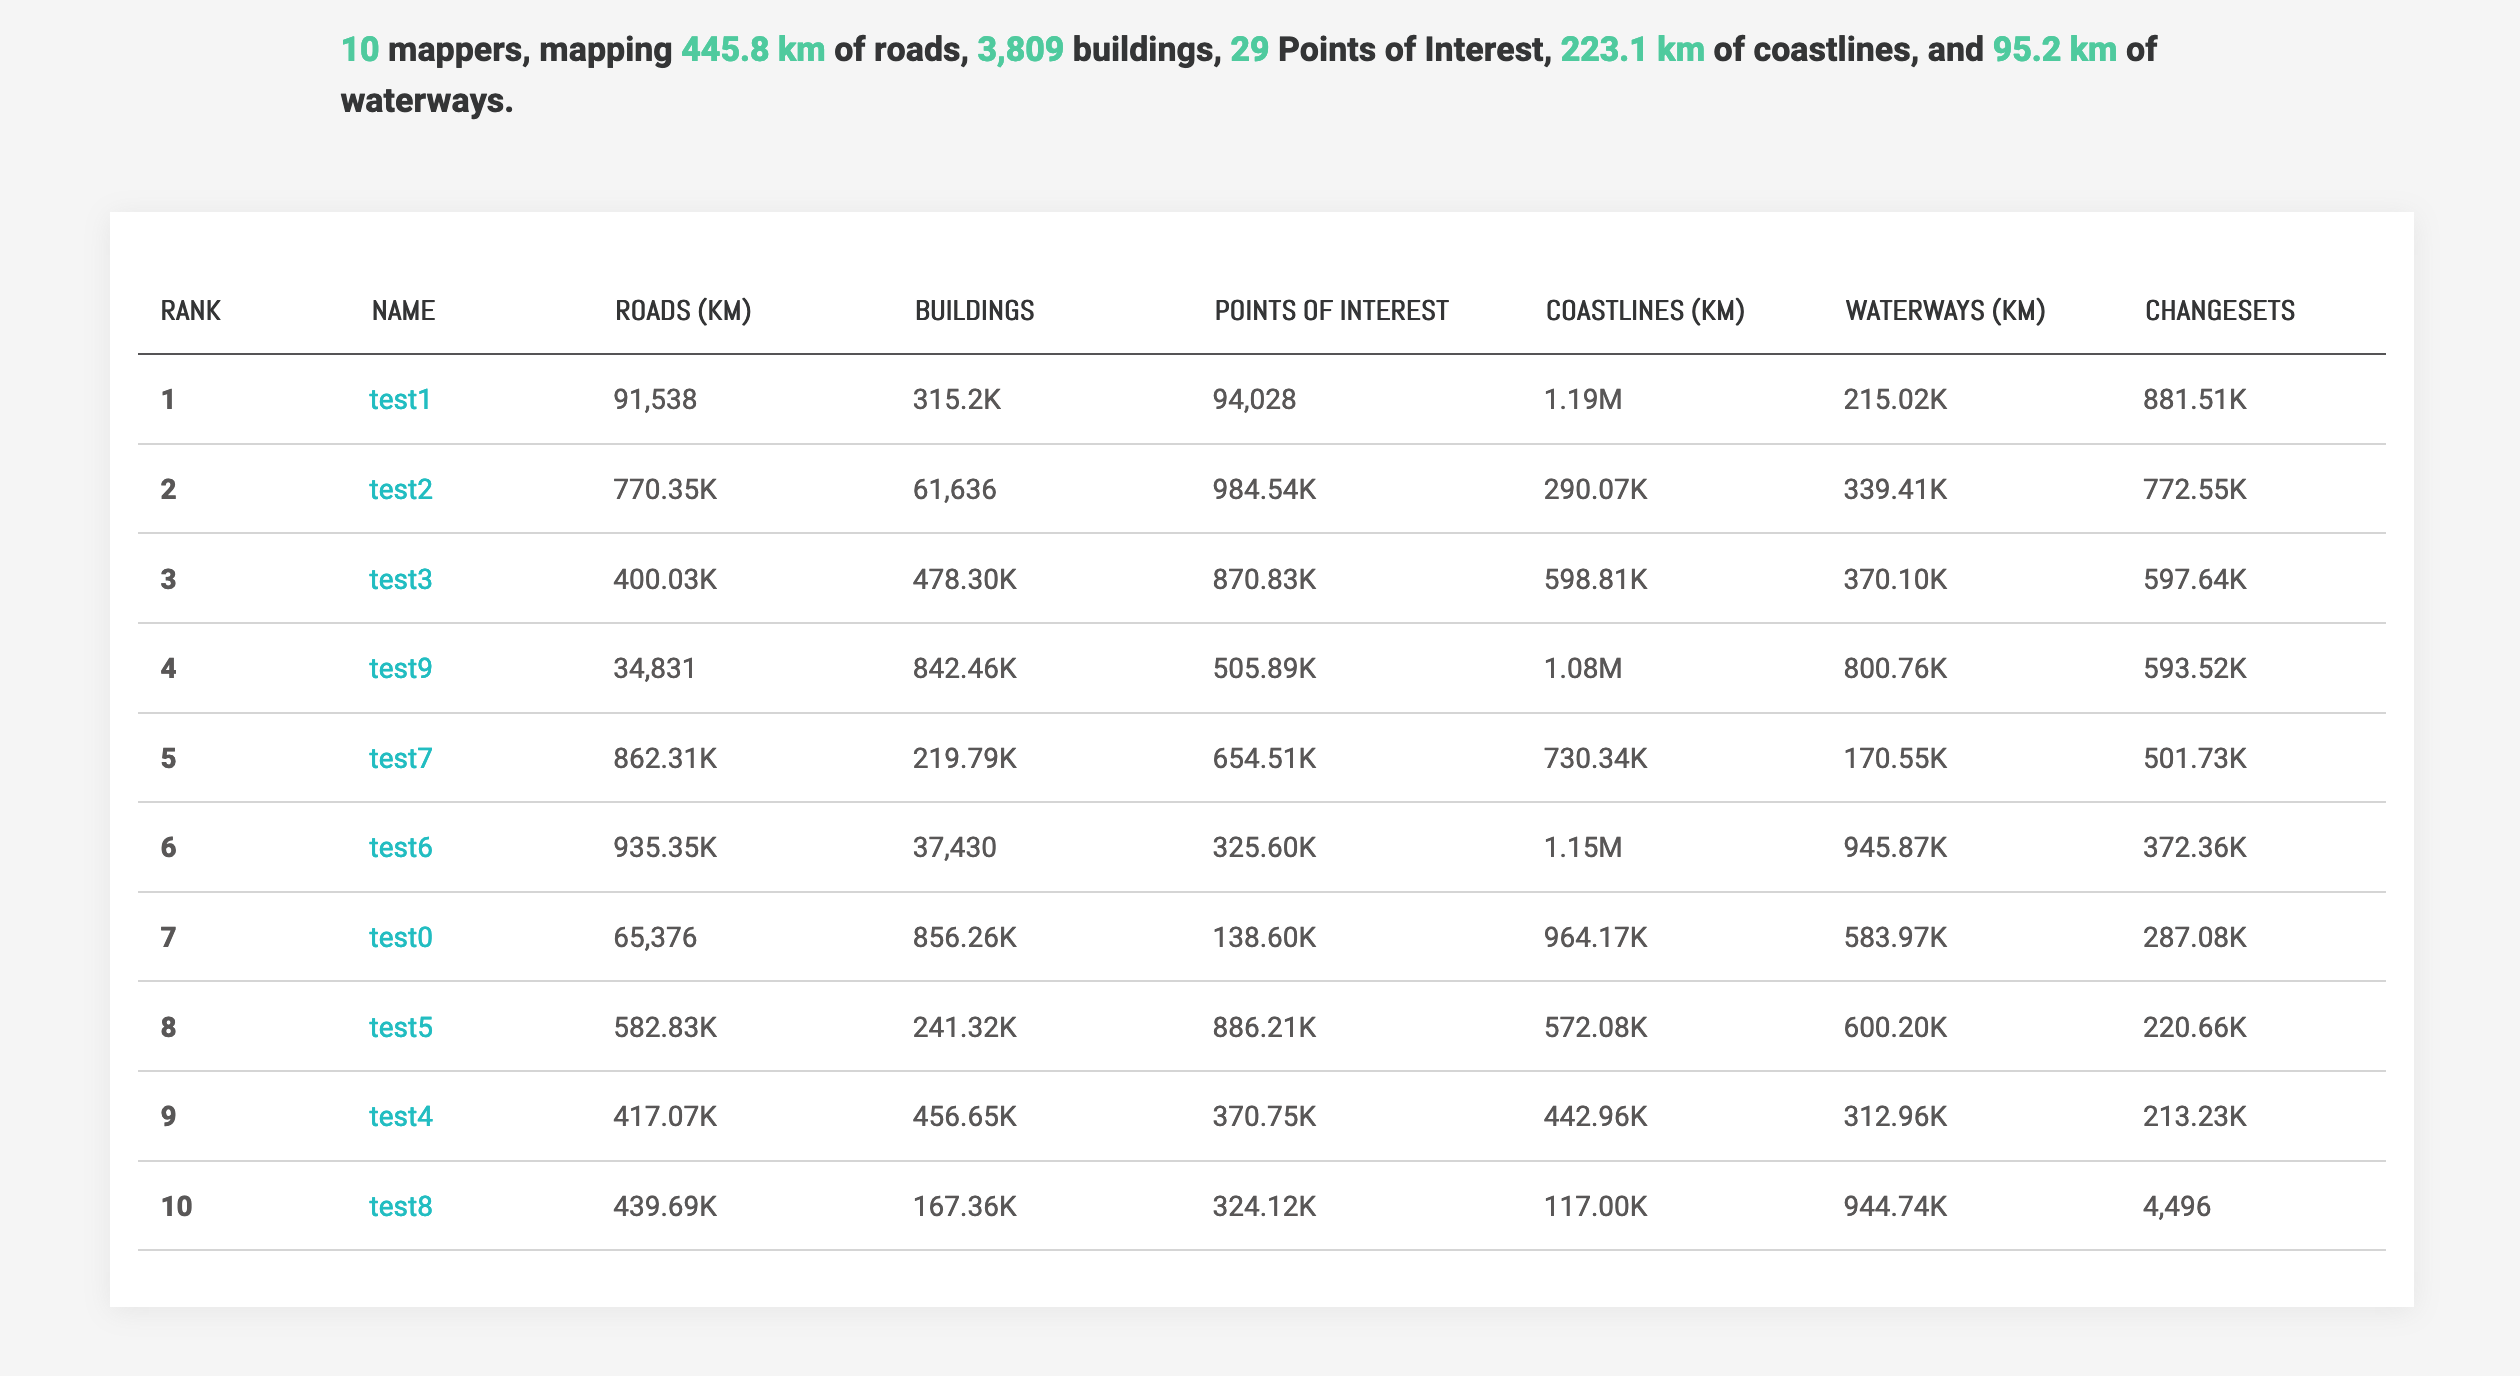
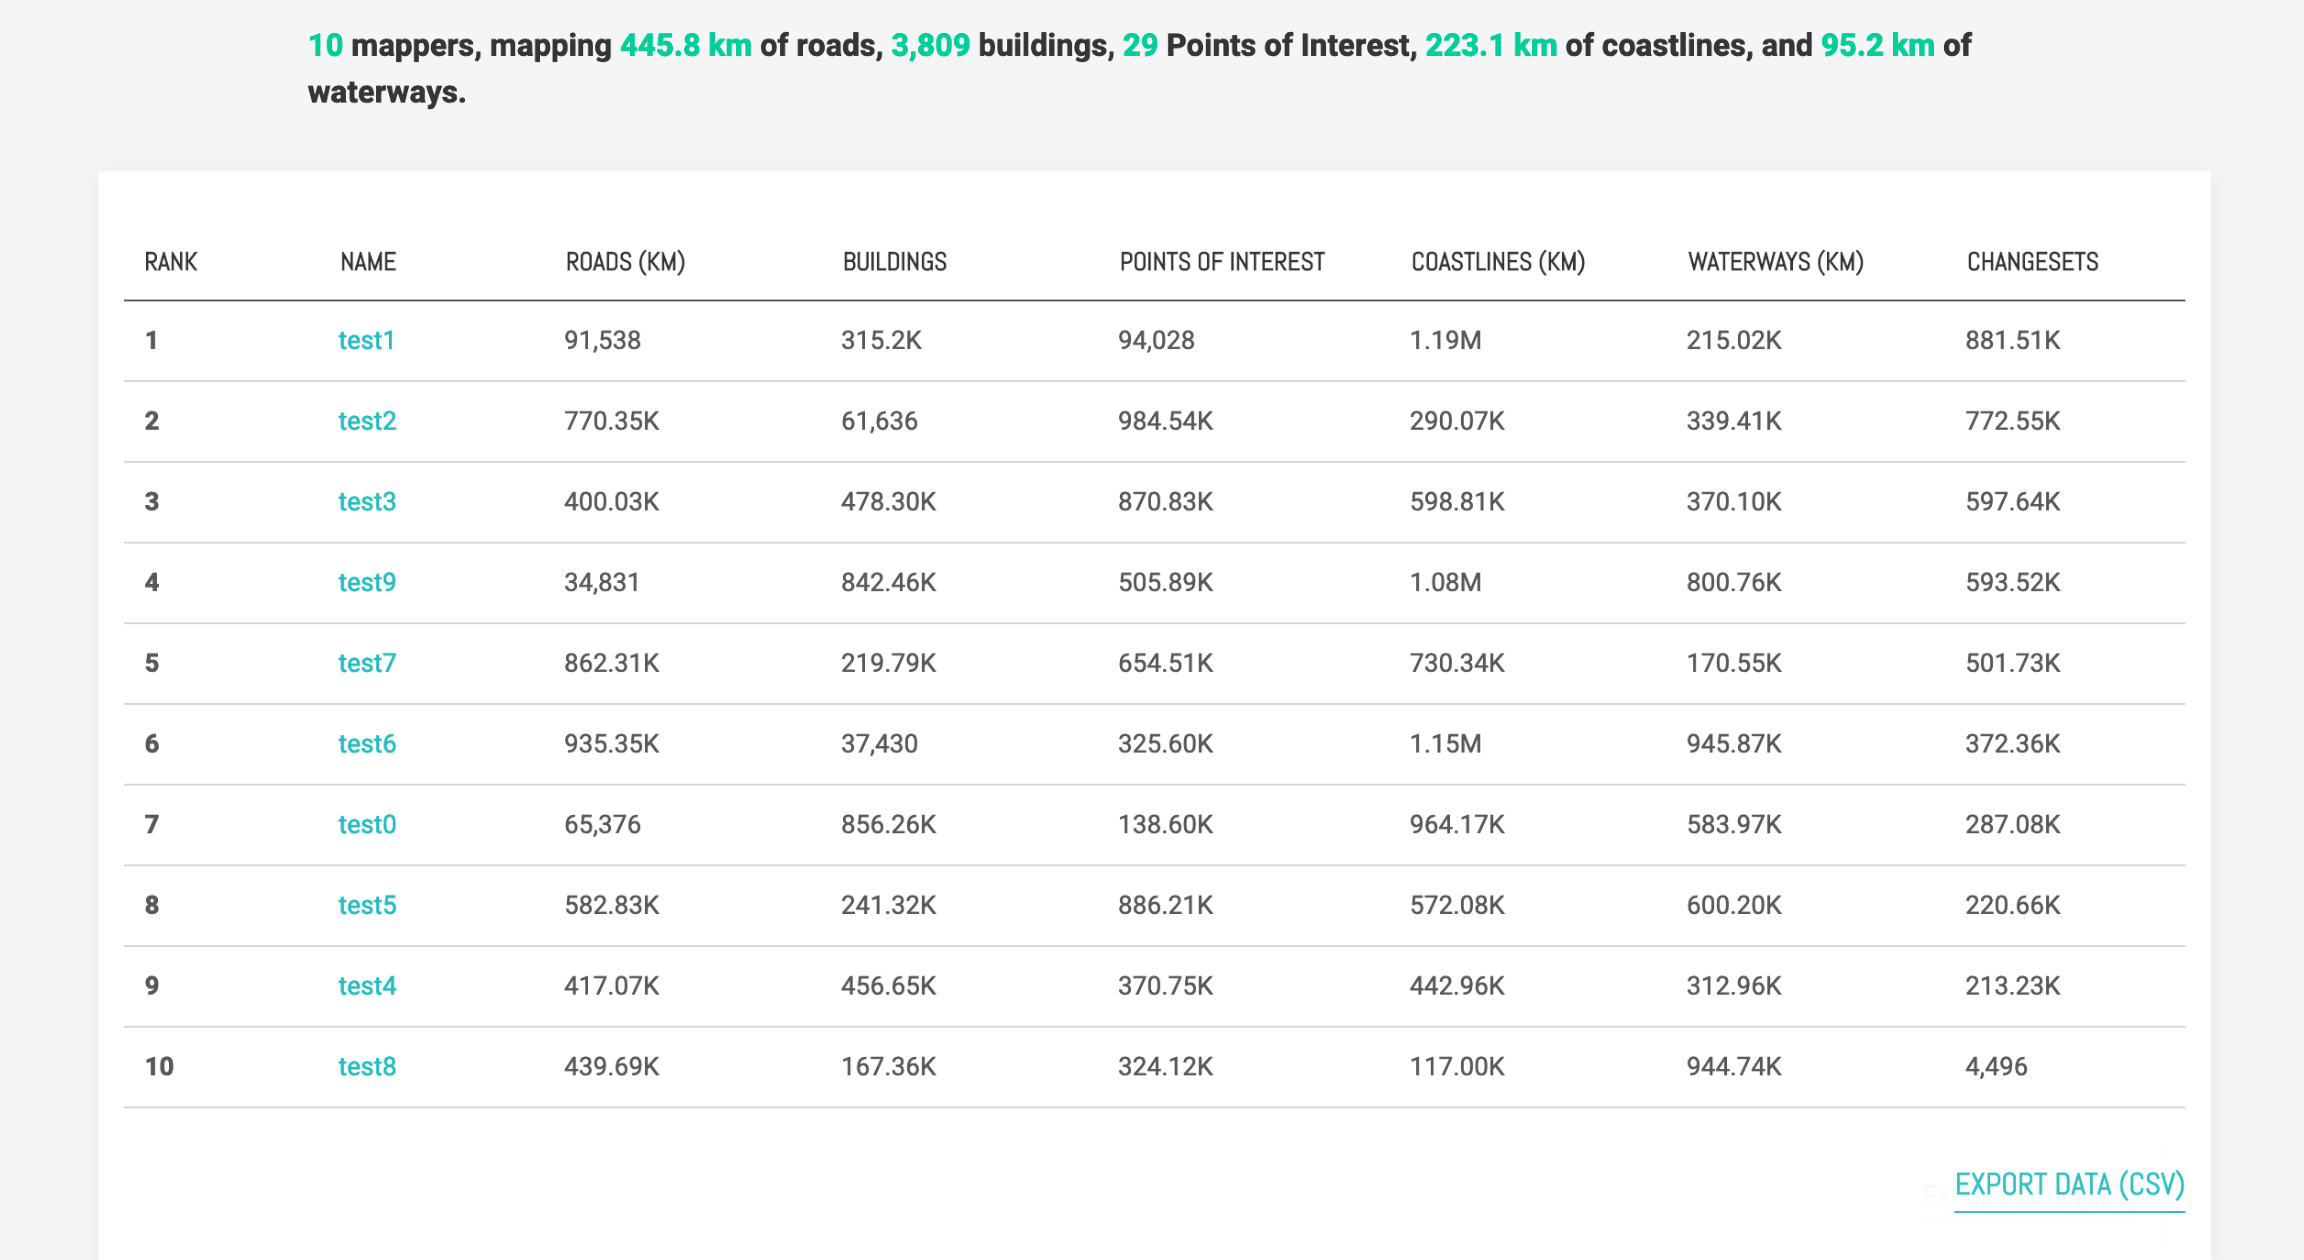
Add screenshots for data export docs
Also added data export instructions to campaign statistics page

diff --git a/docusaurus/docs/users/exporting-data.md b/docusaurus/docs/users/exporting-data.md
@@ -4,6 +4,10 @@ title: "Exporting data"
 sidebar_label: "Exporting data"
 ---
 
-To export your personal user data, click "Export Data (CSV)" from your dashboard. Your user data will be downloaded as a CSV file. You can also download the data of any public user via the same link on that user's profile.
+To export your personal user data, click **Export Data (CSV)** from your dashboard.
+![Export User Data](assets/img/export-user-data.png)
 
-Download the contributions of the top ten participants for any campaign by clicking the "Export Data" link on that campaign's page.
+Your user data will be downloaded as a CSV file. You can also download the data of any public user via the same link on that user's profile.
+
+To download an export of the contributions of the top ten participants for any campaign, click the **Export Data (CSV)** link on that campaign's page.
+![User Table](assets/img/campaign-table.png)

diff --git a/docusaurus/docs/users/campaign-statistics.md b/docusaurus/docs/users/campaign-statistics.md
@@ -31,7 +31,6 @@ The next section contains the campaign level statistics such as how much of the 
 
 ## User table
 
-This section consists of a table of the top 10 users by number of changesets, and a breakdown of their edits.
+This section consists of a table of the top 10 users by number of changesets, and a breakdown of their edits. To download an export of the contributions of the top 10 participants for any campaign, click the **Export Data (CSV)** link on the campaign user table.
 
 ![User Table](assets/img/campaign-table.png)
-
